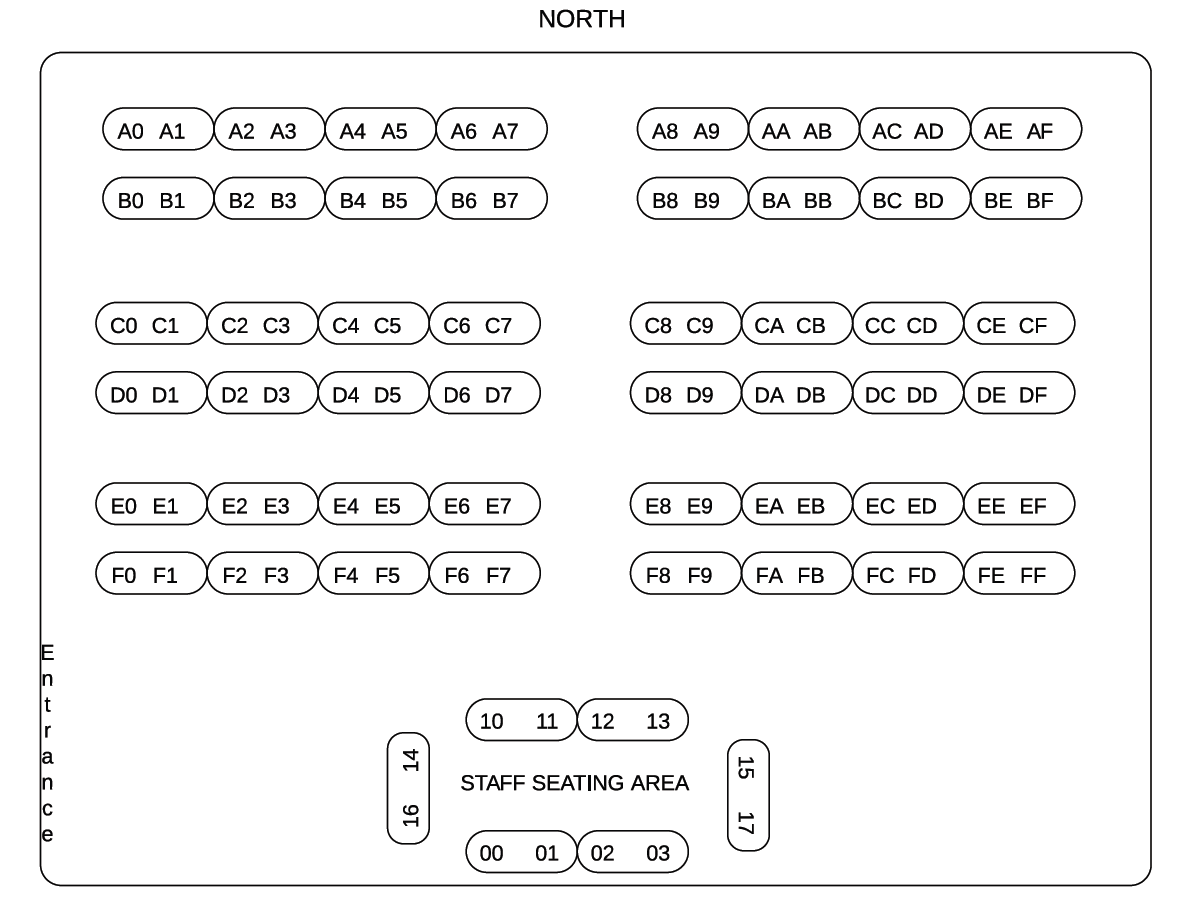
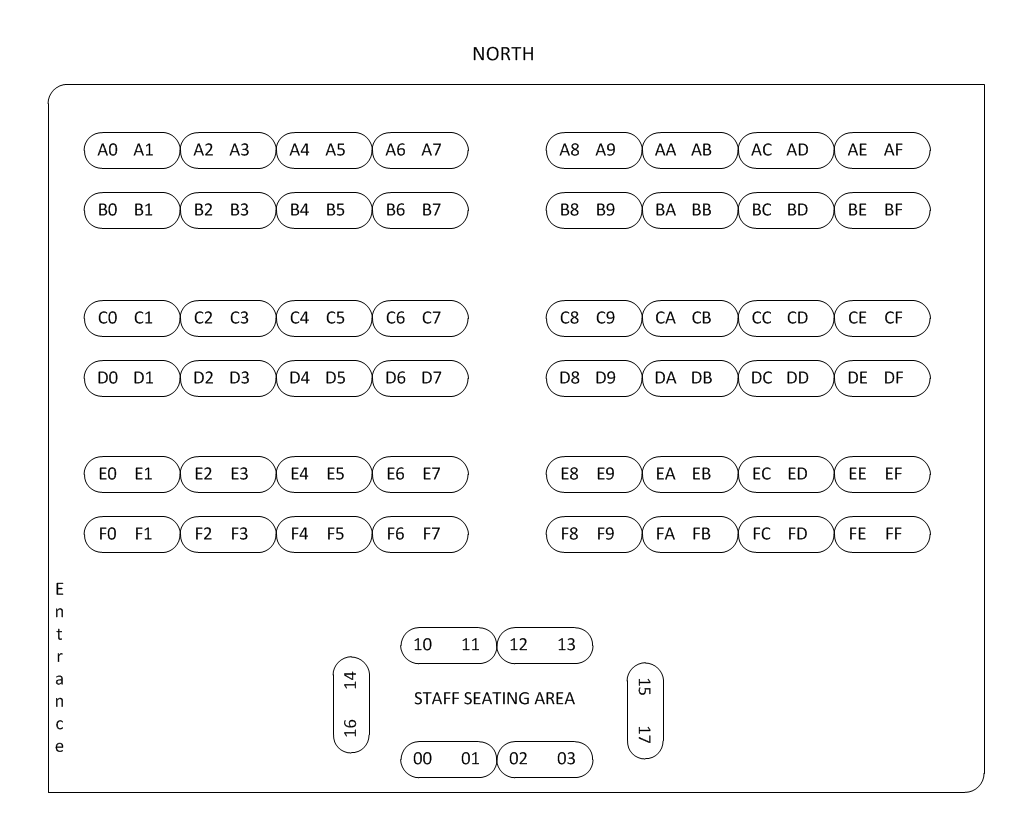
Change the seating layout to have reserved seats show on top of the image.

diff --git a/layout.html b/layout.html
@@ -57,94 +57,33 @@ Released   : 20120705
 						<font size="1">(Click image for larger view)</font>
 				</h2>
 				<p>
-					<a href="images/seating.png" target="_blank"><img src="images/seating.png" width="922" height="711" alt="Seat layout" /></a>
-				</p>
-				<h2>
-				RESERVED SEATS TO DATE
-				</h2>
-				<p>
-					<strong>Open seating after 2pm (LAN opens at noon)</strong><br />
-						<table width="900">
-						
-							<tr class="grid"><td>A0</td><td>A1</td><td>A2</td><td>A3</td><td>A4</td><td>A5</td><td>A6</td><td>A7</td>
-							<td>A8</td><td>A9</td><td>AA</td><td>AB</td><td>AC</td><td>AD</td><td>AE</td><td>AF</td></tr>
-							
-							<tr>
-								<td>Open Seat</td><td>Open Seat</td><td>Open Seat</td><td>Open Seat</td>
-								<td>Open Seat</td><td>Open Seat</td><td>Open Seat</td><td>Open Seat</td>
-								<td>Open Seat</td><td>Open Seat</td><td>Open Seat</td><td>Open Seat</td>
-								<td>Open Seat</td><td>Brandon S.</td><td>David R.</td><td>Rebecca R.</td>
-							</tr>
-							
-							<tr class="grid"><td>B0</td><td>B1</td><td>B2</td><td>B3</td><td>B4</td><td>B5</td><td>B6</td><td>B7</td>
-							<td>B8</td><td>B9</td><td>BA</td><td>BB</td><td>BC</td><td>BD</td><td>BE</td><td>BF</td></tr>
-							
-							<tr>
-								<td>Open Seat</td><td>Open Seat</td><td>Open Seat</td><td>Open Seat</td>
-								<td>Open Seat</td><td>Open Seat</td><td>Open Seat</td><td>Open Seat</td>
-								<td>Open Seat</td><td>Open Seat</td><td>Open Seat</td><td>Open Seat</td>
-								<td>Open Seat</td><td>Open Seat</td><td>Open Seat</td><td>Open Seat</td>
-							</tr>
-							
-							<tr class="grid"><td>C0</td><td>C1</td><td>C2</td><td>C3</td><td>C4</td><td>C5</td><td>C6</td><td>C7</td>
-							<td>C8</td><td>C9</td><td>CA</td><td>CB</td><td>CC</td><td>CD</td><td>CE</td><td>CF</td></tr>
-							
-							<tr>
-								<td>Open Seat</td><td>Open Seat</td><td>Open Seat</td><td>Chaz S.</td>
-								<td>Open Seat</td><td>Open Seat</td><td>Beau H.</td><td>Open Seat</td>
-								<td>Open Seat</td><td>Open Seat</td><td>Open Seat</td><td>Open Seat</td>
-								<td>Open Seat</td><td>Open Seat</td><td>Open Seat</td><td>Open Seat</td>
-							</tr>
-							
-							<tr class="grid"><td>D0</td><td>D1</td><td>D2</td><td>D3</td><td>D4</td><td>D5</td><td>D6</td><td>D7</td>
-							<td>D8</td><td>D9</td><td>DA</td><td>DB</td><td>DC</td><td>DD</td><td>DE</td><td>DF</td></tr>
-							
-							<tr>
-								<td>Open Seat</td><td>Open Seat</td><td>Open Seat</td><td>Open Seat</td>
-								<td>Open Seat</td><td>Open Seat</td><td>Open Seat</td><td>Open Seat</td>
-								<td>Open Seat</td><td>Open Seat</td><td>Open Seat</td><td>Open Seat</td>
-								<td>Open Seat</td><td>Open Seat</td><td>Open Seat</td><td>Open Seat</td>
-							</tr>
-							
-							<tr class="grid"><td>E0</td><td>E1</td><td>E2</td><td>E3</td><td>E4</td><td>E5</td><td>E6</td><td>E7</td>
-							<td>E8</td><td>E9</td><td>EA</td><td>EB</td><td>EC</td><td>ED</td><td>EE</td><td>EF</td></tr>
-							
-							<tr>
-								<td>Open Seat</td><td>Open Seat</td><td>Open Seat</td><td>Open Seat</td>
-								<td>Open Seat</td><td>Open Seat</td><td>Open Seat</td><td>Open Seat</td>
-								<td>Open Seat</td><td>Open Seat</td><td>Open Seat</td><td>Open Seat</td>
-								<td>Open Seat</td><td>Open Seat</td><td>Open Seat</td><td>Open Seat</td>
-							</tr>
-							
-							<tr class="grid"><td>F0</td><td>F1</td><td>F2</td><td>F3</td><td>F4</td><td>F5</td><td>F6</td><td>F7</td>
-							<td>F8</td><td>F9</td><td>FA</td><td>FB</td><td>FC</td><td>FD</td><td>FE</td><td>FF</td></tr>
-						
-							<tr>
-								<td>Open Seat</td><td>Open Seat</td><td>Open Seat</td><td>Open Seat</td>
-								<td>Open Seat</td><td>Open Seat</td><td>David P.</td><td>Michael T.</td>
-								<td>Open Seat</td><td>Open Seat</td><td>Open Seat</td><td>Open Seat</td>
-								<td>Open Seat</td><td>Open Seat</td><td>Open Seat</td><td>5star A.</td>
-							</tr>
-						
-						</table>
-						
-					<br /><strong>Reserved for Staff/Volunteers:</strong><br />
-						10 - Dan M.<br />
-						11 - Tomas Q.<br />
-						12 - Brian G.<br />
-						13 - Anthony B.<br />
-						14 - Steven M.<br />
-						15 - Jeremy A.<br />
-						16 - Jon W.<br />
-						17 - Andrew L.<br />
-						
-						<br />
-					<strong>Reserved for LAN equipment:</strong><br />
-						00 - Networking<br />
-						01 - Wireless<br />
-						02 - Game Server(s)<br />
-						03 - Server(s)<br />
-				</p>
+<div class="layout">
+<div class="staff staff-16" title="Jon W."></div>
+<div class="staff staff-14" title="Steven M."></div>
+<div class="staff staff-10" title="Dan M."></div>
+<div class="staff staff-11" title="Tomas Q."></div>
+<div class="staff staff-12" title="Brian G."></div>
+<div class="staff staff-13" title="Anthony B."></div>
+<div class="equipment staff-00" title="Equipment: Networking"></div>
+<div class="equipment staff-01" title="Equipment: Wireless"></div>
+<div class="equipment staff-02" title="Equipment: Game Server(s)"></div>
+<div class="equipment staff-03" title="Equipment: Server(s)"></div>
+<div class="staff staff-15" title="Jeremy A."></div>
+<div class="staff staff-17" title="Andrew L."></div>
+
+<div class="seat row-a column-d" title="Brandom S."></div>
+<div class="seat row-a column-e" title="David R."></div>
+<div class="seat row-a column-f" title="Rebecca R."></div>
+
+<div class="seat row-c column-3" title="Chaz S."></div>
+<div class="seat row-c column-6" title="Beau H."></div>
+
+<div class="seat row-f column-6" title="David P."></div>
+<div class="seat row-f column-7" title="Michael T."></div>
+<div class="seat row-f column-f" title="5star A."></div>
+
+</div>
+</p>
 	</div>
 	<div id="page-bottom">
 		<div id="page-bottom-content">

diff --git a/style.css b/style.css
@@ -307,3 +307,50 @@ a.tw {
     background: left center no-repeat url(images/twitter-w.png);
     background-size: 24px;
 }
+
+
+/* For ANTRat's boxes-over-seating-layout-image */
+.layout { position: relative; background-image: url('images/seating.png'); background-size: 922px 711px; width: 922px; height: 711px; }
+.seat,.staff,.equipment{ height: 35px; width: 42px; position: absolute; }
+.seat { background-color: red;opacity:0.3;}
+.staff { background-color: yellow; opacity: 0.4}
+.equipment { background-color: blue; opacity: 0.3}
+.row-a { top: 111px; }
+.row-b { top: 163px; }
+.row-c { top: 255px; }
+.row-d { top: 307px; }
+.row-e { top: 388px; }
+.row-f { top: 440px; }
+.column-0 { left: 75px; }
+.column-1 { left: 118px; }
+.column-2 { left: 161px; }
+.column-3 { left: 204px; }
+.column-4 { left: 247px; }
+.column-5 { left: 290px; }
+.column-6 { left: 333px; }
+.column-7 { left: 376px; }
+.column-8 { left: 488px; }
+.column-9 { left: 531px; }
+.column-a { left: 574px; }
+.column-b { left: 617px; }
+.column-c { left: 660px; }
+.column-d { left: 703px; }
+.column-e { left: 746px; }
+.column-f { left: 789px; }
+
+
+/* Staff Seats 00,01,02,03,10,11,12,13 */
+.staff-00,.staff-01,.staff-02,.staff-03 { top: 632px; }
+.staff-10,.staff-11,.staff-12,.staff-13 { top: 535px; }
+.staff-00,.staff-10 { left: 358px;}
+.staff-01,.staff-11 { left: 401px;}
+.staff-02,.staff-12 { left: 445px;}
+.staff-03,.staff-13 { left: 489px;}
+
+/* Staff seats 14,15,16,17 */
+.staff-14,.staff-16,.staff-15,.staff-17 { width: 35px; height: 45px;}
+.staff-14,.staff-15 { top: 559px; }
+.staff-16,.staff-17 { top: 605px; }
+.staff-14,.staff-16 { left: 298px; }
+.staff-15,.staff-17 { left: 560px; }
+
